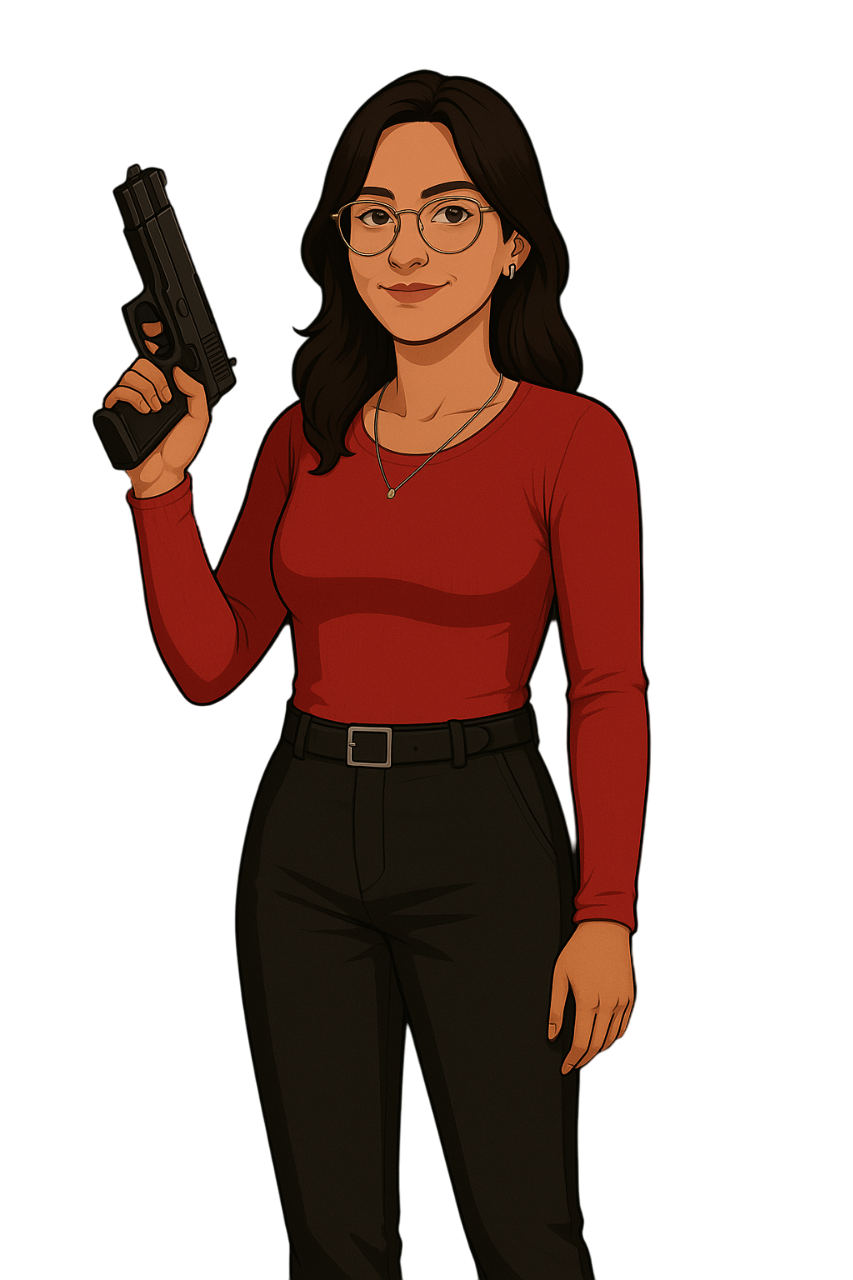
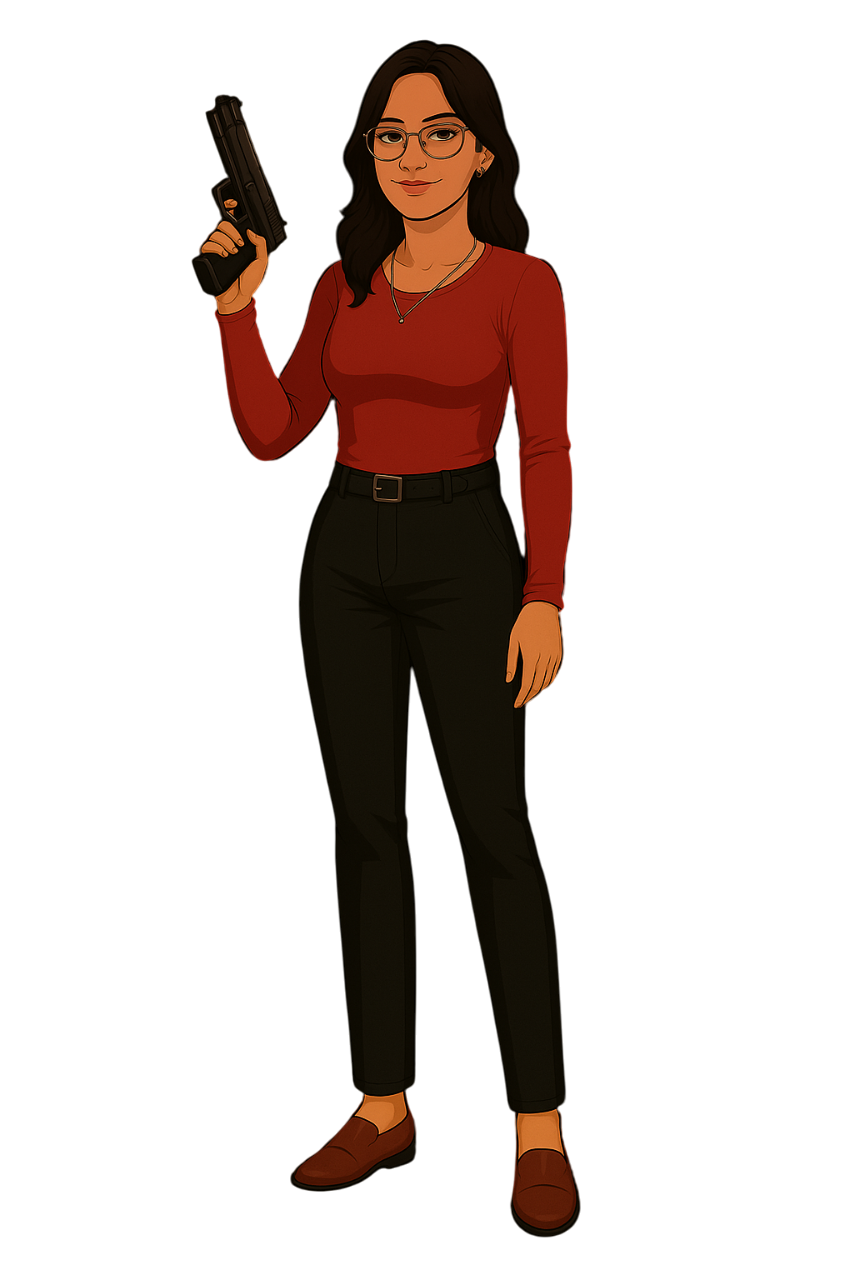
Iimage genration Done Routing Pending

diff --git a/src/Pages/Home.jsx b/src/Pages/Home.jsx
@@ -41,11 +41,11 @@ const Home = () => {
    })
  });
  const cards = [
-    { height: "70%", route: "/prajwal" },
-    { height: "75%", route: "/salila" },
-    { height: "80%", route: "/praachi" },
-    { height: "75%", route: "/sonal" },
-    { height: "70%", route: "/Vaishnavi" },
+    { height: "70%", src:"./PraachiGun.png" , route: "/salila" },
+    { height: "75%", src:"./SalilaGun.png" , route: "/praachi" },
+    { height: "80%", src:"./PrajwalGun.png" , route: "/prajwal" },
+    { height: "75%", src:"./VaishGun.png" , route: "/sonal" },
+    { height: "70%", src:"./SonalGun.png" , route: "/Vaishnavi" },
   ];
   return (
     <>
@@ -80,7 +80,7 @@ const Home = () => {
         </svg>
       </div> 
       {/* /this makes the VI Animation */}
-   { showContent && <div className='bg-black text-center pt-10  text-white text-8xl'>
+   { showContent && <div className='bg-[url("./HomeBg.jpg")] text-center pt-10  text-white text-8xl'>
      <div className="navbar absolute top-0 left-0 w-full py-10 px-10 z-[10] "> {/* this is nav bar*/}
               <div className="logo flex justify-between">
                 <div className="lines flex gap-[5px]  flex-col">
@@ -104,10 +104,10 @@ const Home = () => {
                     </div>
               </div>
           </div>
-     <div className='h-screen bg-black text-white flex   items-center justify-center px-[100px] pb-20 gap-10'>
+     <div className='h-screen  text-white flex items-center justify-center mx-[8rem] pb-20 gap-10'>
        
       {cards.map((card,idx)=>(
-        <HomeCard key={idx} height={card.height} route={card.route}/>
+        <HomeCard key={idx} height={card.height} route={card.route} src={card.src}/>
       ))}
       
 

diff --git a/src/Pages/Praachi.jsx b/src/Pages/Praachi.jsx
@@ -75,8 +75,8 @@ function Praachi() {
   gsap.to(".character",{
   rotate:0,
   x:"-50",
-  bottom:"-1%",
-  scale:1.4,
+  bottom:"-10%",
+  scale:0.8,
   delay:"-.7",
   duration:2.5,
   ease:"Expo.easeInOut"
@@ -150,7 +150,7 @@ const chaosData = {
 };
 
 const imgData = {
-  src: "./Prajwal.png",
+  src: "./PraachiSit.png",
   Btndata: "Summon the Rebel",
 };
 
@@ -158,11 +158,11 @@ const imgData = {
     <>
       <Animated/> {/* this is Animated Component */}
      {showContent && <div className="main w-full bg-black rotate-[-10deg] scale-[1.7]">
-        <Land characterImg="./image-Photoroom.png"/> {/* this is Land Component */}
+        <Land characterImg="./PraachiSelfie.png"/> {/* this is Land Component */}
         <div className="w-full h-screen flex bg-black items-center justify-center px-10">
           <div className="cont flex text-white w-full h-[80%] ">
            <div className="leftimg relative w-1/2 h-full">
-          <TiltedCard imageSrc="./public/Prajwal.png"/>
+          <TiltedCard imageSrc="./public/PraachiCar.png"/>
            </div>
            <Download
             data={DownloadData}
@@ -171,7 +171,7 @@ const imgData = {
         </div>
         <Cards data={Madness} chaosData={chaosData} imgData={imgData}/>  {/* this is Cards Component */}
         <ScrollCard 
-        StandImg="/personcar.png" 
+        StandImg="/PraachiGun.png" 
         data={cardData}/> {/* this is ScrollCard Component */}
      </div>
      

diff --git a/src/Pages/Prajwal.jsx b/src/Pages/Prajwal.jsx
@@ -95,8 +95,8 @@ function Prajwal() {
   gsap.to(".character",{
   rotate:0,
   x:"-50",
-  bottom:"-1%",
-  scale:0.95,
+  bottom:"-10%",
+  scale:0.8,
   delay:"-.7",
   duration:2.5,
   ease:"Expo.easeInOut"
@@ -172,7 +172,7 @@ const chaosData = {
 
 
 const imgData = {
-  src: "./Prajwal.png",
+  src: "./PrajwalSit.png",
   Btndata: "Summon the Legend",
  
 };
@@ -185,7 +185,7 @@ const imgData = {
         <div className="w-full h-screen flex bg-black items-center justify-center px-10"> // this is the section below Land Component
           <div className="cont flex text-white w-full h-[80%] ">
            <div className="leftimg relative w-1/2 h-full">
-          <TiltedCard imageSrc="./public/PrajwalSit.png"/>
+          <TiltedCard imageSrc="./public/PrajwalCar.png"/>
            </div>
            <Download
             data={DownloadData}
@@ -194,7 +194,7 @@ const imgData = {
         </div>
         <Cards data={Madness} chaosData={chaosData} imgData={imgData}/> {/* this is Cards Component */}
         <ScrollCard 
-        StandImg="/personcar.png" 
+        StandImg="/PrajwalGun.png" 
         data={cardData}/> {/* this is ScrollCard Component */}
      </div>
      

diff --git a/src/Pages/Vaishnavi.jsx b/src/Pages/Vaishnavi.jsx
@@ -74,8 +74,8 @@ function Vaishnavi() {
   gsap.to(".character",{
   rotate:0,
   x:"-50",
-  bottom:"-5%",
-  scale:0.9,
+  bottom:"-10%",
+  scale:0.8,
   delay:"-.7",
   duration:2.5,
   ease:"Expo.easeInOut"
@@ -149,7 +149,7 @@ const chaosData = {
 };
 
 const imgData = {
-  src: "./Prajwal.png",
+  src: "./VaishSit.png",
   Btndata: "Summon the Creator",
 };
 
@@ -161,7 +161,7 @@ const imgData = {
         <div className="w-full h-screen flex bg-black items-center justify-center px-10">
           <div className="cont flex text-white w-full h-[80%] ">
            <div className="leftimg relative w-1/2 h-full">
-          <TiltedCard imageSrc="./public/Prajwal.png"/>
+          <TiltedCard imageSrc="./public/VaishCar.png"/>
            </div>
            <Download
             data={DownloadData}
@@ -170,7 +170,7 @@ const imgData = {
         </div>
         <Cards data={Madness} chaosData={chaosData} imgData={imgData} /> {/* this is Cards Component */}
         <ScrollCard 
-        StandImg="/personcar.png" 
+        StandImg="/VaishGun.png" 
         data={cardData}/> {/* this is ScrollCard Component */}
      </div>
      

diff --git a/src/Components/HomeCard.jsx b/src/Components/HomeCard.jsx
@@ -2,7 +2,7 @@ import React, { useRef } from 'react'
 import { useNavigate } from "react-router-dom";
  
 
-const HomeCard = ({height , route}) => {
+const HomeCard = ({height , route, src}) => {
     
     const audioRef = useRef(null);
     const navigate = useNavigate();
@@ -20,9 +20,9 @@ const HomeCard = ({height , route}) => {
   
       };
   return (
-   <div className=' overflow-hidden transition-all ease-in-out hover:shadow-[0_0_50px_10px_rgba(234,179,8,0.8)] rounded-3xl  shrink-0 w-[20%]  ' style={{height:height}} onClick={playSound} >
+   <div className=' overflow-hidden transition-all ease-in-out mt-[20rem]  hover:shadow-[0_0_50px_10px_rgba(234,179,8,0.8)] rounded-3xl  shrink-0 w-[20%]  ' style={{height:height}} onClick={playSound} >
           <audio ref={audioRef} preload="auto" src="/Sounds/button.mp3" ></audio>
-            <img src="/Carperson.png" className='object-cover hover:scale-[110%] transition-all ease-in-out h-[100%]' alt="" />
+            <img src={src} className='object-cover hover:scale-[110%]  transition-all ease-in-out h-[100%]' alt="" />
         </div>
   )
 }

diff --git a/src/Pages/Salila.jsx b/src/Pages/Salila.jsx
@@ -75,7 +75,7 @@ function Salila() {
   rotate:0,
   x:"-50",
   bottom:"-10%",
-  scale:0.9,
+  scale:0.8,
   delay:"-.7",
   duration:2.5,
   ease:"Expo.easeInOut"
@@ -149,7 +149,7 @@ const chaosData = {
 };
 
 const imgData = {
-  src: "./Prajwal.png",
+  src: "./SalilaSit.png",
   Btndata: "Summon the Storm",
 };
 
@@ -161,7 +161,7 @@ const imgData = {
         <div className="w-full h-screen flex bg-black items-center justify-center px-10">
           <div className="cont flex text-white w-full h-[80%] ">
            <div className="leftimg relative w-1/2 h-full">
-          <TiltedCard imageSrc="./public/Prajwal.png"/>
+          <TiltedCard imageSrc="./public/SalilaCar.png"/>
            </div>
            <Download
             data={DownloadData}
@@ -170,7 +170,7 @@ const imgData = {
         </div>
         <Cards data={Madness} chaosData={chaosData} imgData={imgData}/> {/* this is Cards Component */}
         <ScrollCard 
-        StandImg="/personcar.png" 
+        StandImg="/SalilaGun.png" 
         data={cardData}/> {/* this is ScrollCard Component */}
      </div>
      

diff --git a/src/Components/Land.jsx b/src/Components/Land.jsx
@@ -21,7 +21,7 @@ const Land = ({characterImg}) => {
               <h1 className="text-[12rem] leading-none  ml-20">Theft</h1>
               <h1 className="text-[12rem] leading-none  -ml-40">Auto</h1>
             </div>
-            <img src={characterImg} alt="" className="character  absolute -bottom-[150%] scale-[3] rotate-[-25deg]  -translate-x-1/2 ml-[38rem] left-1/3 " />
+            <img src={characterImg} alt="" className="character  absolute -bottom-[150%] scale-[3] rotate-[-25deg]  -translate-x-1/2 ml-[15rem] left-1/3 " />
             <div className="btmbar w-full py-10 px-10 absolute bg-gradient-to-t from-black to-transparent bottom-0 left-0"> {/* this is bottom bar not fotter */}
             <div className="flex gap-4 text-white text-4xl">
               <i className="ri-arrow-down-line"></i>

diff --git a/src/Components/ScrollCard.jsx b/src/Components/ScrollCard.jsx
@@ -6,7 +6,7 @@ const ScrollCard = ({StandImg, data}) => {
     <div className='h-screen w-100% gap-10 bg-black flex items-center justify-center'>
      <div className='w-[33%] h-[100%]  overflow-hidden'>
         <img
-             className="object-cover h-[100%] w-auto scale-[1.32] [box-shadow:0_0_50px_10px_rgba(234,179,8,0.4)]"
+             className="object-cover h-[100%] w-auto scale-[1] "
              src={StandImg}
              alt=""
         />

diff --git a/src/Components/TiltedCard.jsx b/src/Components/TiltedCard.jsx
@@ -12,7 +12,7 @@ export default function TiltedCard({
   altText = 'Tilted card image',
   captionText = 'The Hero',
   containerHeight = '100%',
-  containerWidth = '90%',
+  containerWidth = '80%',
   imageHeight = '1000px',
   imageWidth = '800px',
   scaleOnHover = 1.1,
